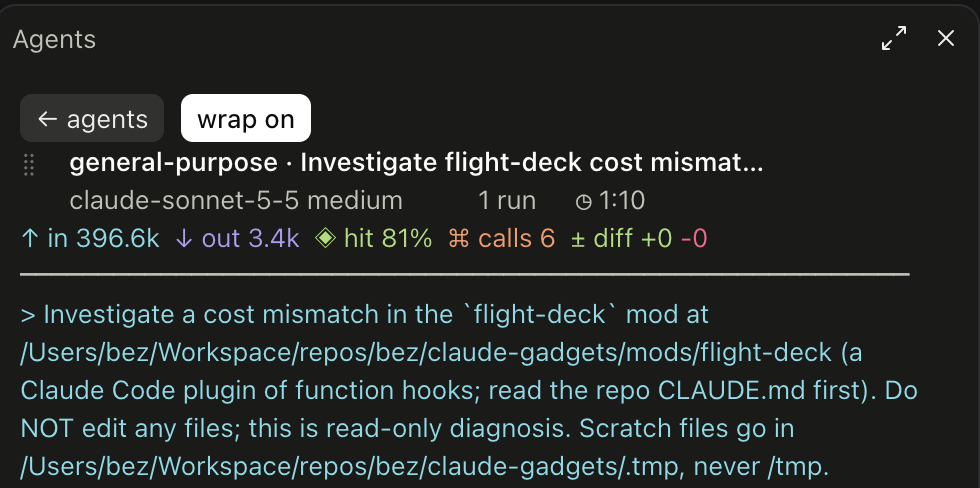
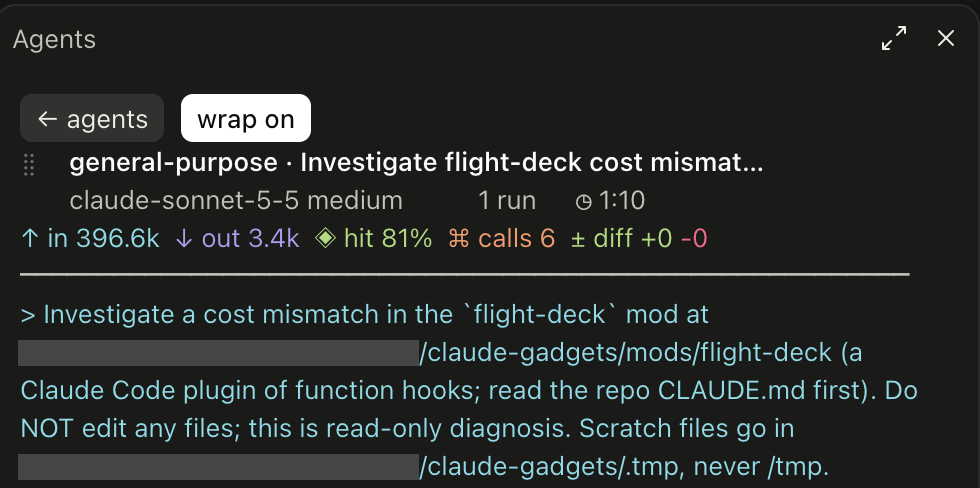
flight-deck 0.11.0: LSP operations in the tools tree; verdict-gate preview (#20)
* feat(flight-deck): LSP operations in the tools tree (0.11.0)

subKeysOf names the operation of an LSP call (hover, documentSymbol,
...), so the tools screen opens LSP to its operations, as it does for
Bash, Agent and Skill. A call with no operation adds no child.

docs: the verdict-gate preview on the CLI, with the home path redacted,
in README.md and its Vietnamese translation.

* docs(previews): redact the home path in the agent transcript previews

Changed region(s): [[0.0, 0.6762, 0.4286, 0.7684], [0.0, 0.9221, 0.4286, 0.9836]]

diff --git a/mods/flight-deck/src/tools.ts b/mods/flight-deck/src/tools.ts
@@ -12,6 +12,7 @@ export const subKeysOf = (tool: string, input: unknown): string[] => {
   if (tool === 'Agent')
     return [typeof i.subagent_type === 'string' ? i.subagent_type : 'general-purpose']
   if (tool === 'Skill') return typeof i.skill === 'string' ? [i.skill] : []
+  if (tool === 'LSP') return typeof i.operation === 'string' ? [i.operation] : []
   return []
 }
 

diff --git a/mods/flight-deck/src/tools.test.ts b/mods/flight-deck/src/tools.test.ts
@@ -102,6 +102,8 @@ test('subKeysOf names what a call of each tool did', () => {
     'superpowers:brainstorming',
   ])
   expect(subKeysOf('Skill', {})).toEqual([])
+  expect(subKeysOf('LSP', { operation: 'hover', filePath: '/x', line: 1 })).toEqual(['hover'])
+  expect(subKeysOf('LSP', {})).toEqual([])
   expect(subKeysOf('Read', { file_path: '/x' })).toEqual([])
 })
 

diff --git a/docs/i18n/README.vi.md b/docs/i18n/README.vi.md
@@ -111,7 +111,7 @@ Một cache break là một step của vòng lặp chính đọc từ prompt cac
 - Hàng `tools` trên màn hình agents hiển thị số lần gọi tool và số tool.
 - Bấm `tools` để xem từng tool cùng số lần gọi và tỉ lệ của nó trên tổng số lần gọi (`calls(%)`). Tool có nhiều lần gọi nhất đứng đầu.
 - Các tool của một MCP server gộp thành một hàng (`mcp__figma`).
-- Hàng có dấu `▸` mở ra một cây cho biết các lần gọi của nó đã làm gì: các tool của một MCP server, các loại agent của `Agent`, các skill của `Skill`, và các lệnh của `Bash`.
+- Hàng có dấu `▸` mở ra một cây cho biết các lần gọi của nó đã làm gì: các tool của một MCP server, các loại agent của `Agent`, các skill của `Skill`, các operation của `LSP`, và các lệnh của `Bash`.
 - Cây của `Bash` hiển thị các pattern của lệnh: tên lệnh, kèm subcommand với các tool như `git` hoặc `bun` (`git status`, `bun run`, `rg`). Một call đếm từng lệnh của một chuỗi lệnh hoặc một pipe. Mod không đếm `cd`, phép gán biến, wrapper như `sudo` hoặc `rtk`, và phần thân của heredoc. Mod chỉ giữ pattern, không giữ lệnh. Sau 100 pattern, một pattern mới được đếm vào `(other)`.
 - Các số đếm gồm cả các lần gọi của mỗi subagent.
 - Pane hiển thị số đếm mới sau step tiếp theo của model.
@@ -163,6 +163,9 @@ docs/i18n/    các bản dịch của README
 
 - Transcript của agent
 ![Transcript của agent trên CLI](../../previews/preview-cli-agent-transcript.png)
+
+- Verdict gate
+![Câu hỏi đang mở của Verdict Gate trên CLI](../../previews/preview-cli-verdict-gate.png)
 
 ### Claude Desktop
 

diff --git a/README.md b/README.md
@@ -153,10 +153,13 @@ docs/i18n/    translations of this README
 ![Claude Code CLI flight deck preview](previews/preview-cli.png)
 
 - Agent dashboard
-![alt text](previews/preview-cli-agent-dashboard.png)
+![Claude Code CLI flight deck - agent dashboard preview](previews/preview-cli-agent-dashboard.png)
 
 - Agent transcript view
-![alt text](previews/preview-cli-agent-transcript.png)
+![Claude Code CLI flight deck - agent transcript preview](previews/preview-cli-agent-transcript.png)
+
+- Verdict gate
+![Claude Code CLI Verdict Gate open ask](previews/preview-cli-verdict-gate.png)
 
 ### Claude Desktop
 

diff --git a/CHANGELOG.md b/CHANGELOG.md
@@ -7,6 +7,14 @@ and each mod follows [Semantic Versioning](https://semver.org/spec/v2.0.0.html).
 
 ## flight-deck
 
+### [0.11.0] - 2026-10-15
+
+Tested on Claude Code 2.1.299.
+
+#### Added
+
+- The `tools` screen opens `LSP` to its operations, such as `hover` and `documentSymbol`.
+
 ### [0.10.1] - 2026-10-14
 
 Tested on Claude Code 2.1.299 and on Claude Desktop with Claude Code 2.1.295.
